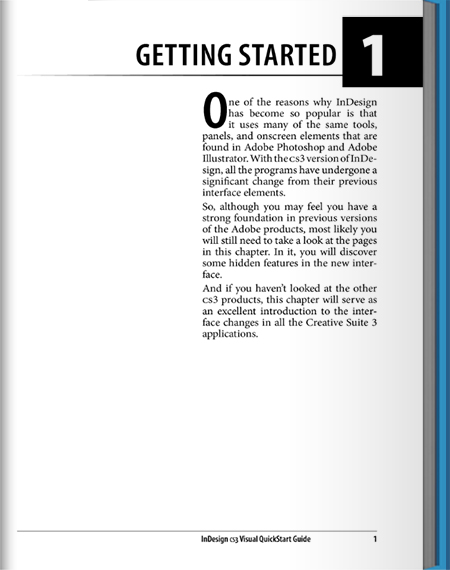
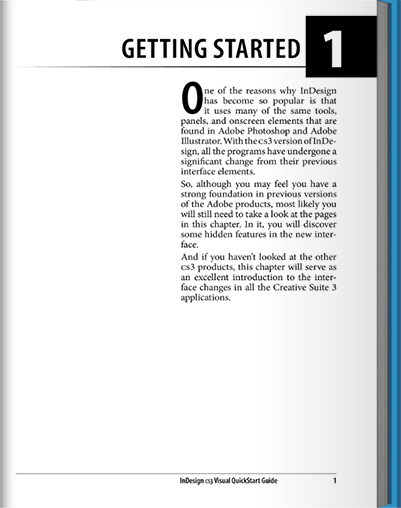
indesigncs3 shape change

diff --git a/indesigncs3/component.css b/indesigncs3/component.css
@@ -15,8 +15,8 @@
 .bk-list {
 	list-style: none;
 	position: absolute;
-	top:120px;
-	left:350px;
+	top:100px;
+	left:420px;
 }
 
 .bk-list li {
@@ -36,7 +36,7 @@
 
 .bk-info {
 	position: relative;
-	margin-top: 630px;
+	margin-top: 580px;
 }
 
 .bk-info h3 {
@@ -142,8 +142,8 @@
 	-moz-transform: translate3d(0,0,19px);
 	transform: translate3d(0,0,19px);
 	display: none;
-	width: 450px;
-	height: 570px;
+	width: 401px;
+	height: 508px;
 	top: 5px;
 	-webkit-backface-visibility: hidden;
 	-moz-backface-visibility: hidden;

diff --git a/app.js b/app.js
@@ -5,7 +5,7 @@ Lens.init(["Components/draggable"], function() {
 
     var indesigncs3 = $("#indesigncs3");
     var citadelspirit = $("#citadelspirit");
-    var music = $("music");
+    var music = $("#music");
 
     Lens.Components.Draggable(indesigncs3,false);
     Lens.Components.Draggable(citadelspirit,false);
